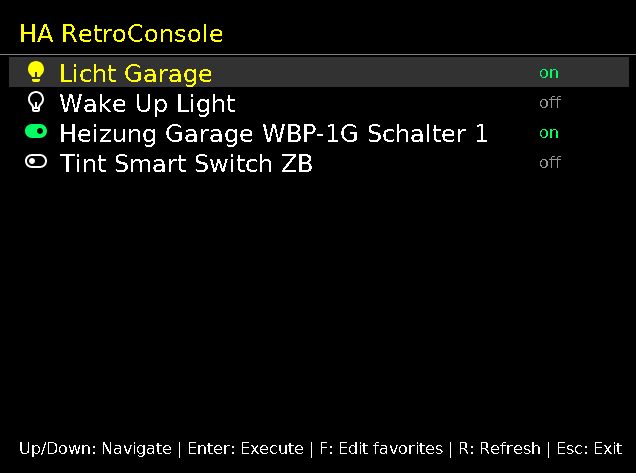
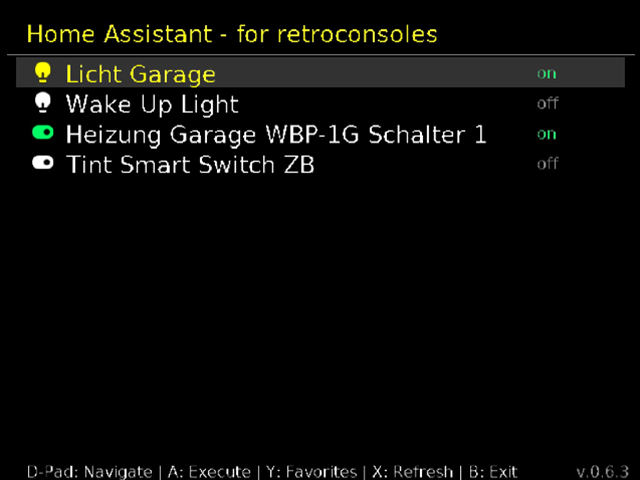
Updated to v0.6.5

diff --git a/tools/ha_sdl2.py b/tools/ha_sdl2.py
@@ -27,7 +27,7 @@ from ha_client import (
     resolve_action,
 )
 
-VERSION = "0.6.4"
+VERSION = "0.6.5"
 
 # Farben (SDL2 RGB)
 COLOR_BG = sdl2.SDL_Color(0, 0, 0, 255)

diff --git a/CHANGELOG.md b/CHANGELOG.md
@@ -2,6 +2,15 @@
 
 All notable changes to this project will be documented in this file.
 
+## [0.6.5] - 2024-05-06
+
+### Changed
+- Renamed the launcher script in the distribution package to `Home Assistant - for retroconsoles.sh` to ensure correct display in handheld frontends.
+- Updated `gameinfo.xml` to use the new script path and point to `cover.png` for better visual presentation.
+- Updated `port.json` to reflect the new filename and project structure.
+- Modified `build_zip.ps1` to automate the renaming of the shell script during the build process.
+
+
 ## [0.6.4] - 2024-05-06
 
 ### Changed

diff --git a/README.md b/README.md
@@ -69,7 +69,7 @@ Inside the prototype, press `Y` (or `F` on PC) to open the favorites editor. Use
 The SDL2 test app runs with:
 
 ```powershell
-pip install pysdl2 pysdl2-dll # v.0.6.4
+pip install pysdl2 pysdl2-dll # v.0.6.5
 python tools/ha_sdl2.py --config config.json
 ```
 